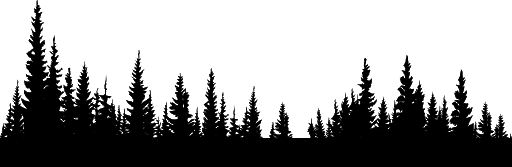
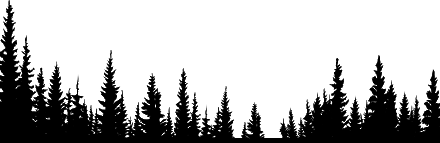
set positions of images

diff --git a/style.css b/style.css
@@ -1,21 +1,32 @@
 body {
     overflow-x: hidden;
 }
-#mntbck {
-    border: 1px solid green;
-    width: 100vw;
-    z-index: 1;
-}
-#fstbck {
-    border: 1px solid blue;
-    width: 100vw;
-    z-index: 2;
-}
+    #imgcontainer {
+        /* border: 10px solid darkslategrey; */
+        position: relative;
+            left: -5px;
+            top: -8px;
+        width: 100vw;
+        height: auto;
+    }
+        #mntbck {
+            /* border: 1px solid green; */
+            position: absolute;
+            width: 100vw;
+            z-index: 1;
+            height: 100vh;
+        }
+        #fstbck {
+            /* border: 1px solid blue; */
+            position: absolute;
+                top: 50vh;
+            width: 100vw;
+            z-index: 2;
+            height: 50vh;
+        }
 
 /*
 NEXT STEP:
-position the mountain and the forest on top of each other. i believe the best way to do this
-is going to be using "position: ;". stack overflow suggestion says wrap the img's in a div and set that to relative,
-then set each image to absolute. this sounds viable. basically making a container that follows page flow, but the 
-elements within it stack. could work
+work on creating javascript that will allow me to make a scrolling effect. i think after that i will work on adding
+new elements, like div's in the body to hold text, but i can see that not working due to my lack of knowledge.
 */

diff --git a/index.html b/index.html
@@ -7,8 +7,10 @@
         <link rel="stylesheet" href="style.css">
     </head>
     <body>
-        <img src="Pictures/mountainbackground.jpeg" alt="Mountain Landscape" id="mntbck">
-        <img src="Pictures/forest.png" alt="Forest Landscape" id="fstbck">
+        <div id="imgcontainer">
+            <img src="Pictures/mountainbackground.jpeg" alt="Mountain Landscape" id="mntbck">
+            <img src="Pictures/forest.png" alt="Forest Landscape" id="fstbck">
+        </div>
     </body>
     <footer>
 
